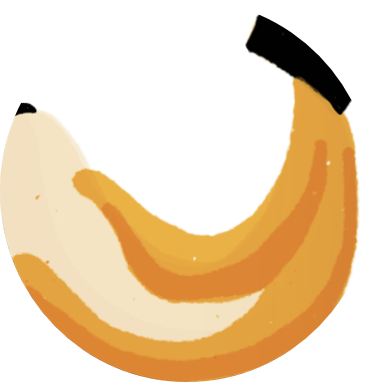
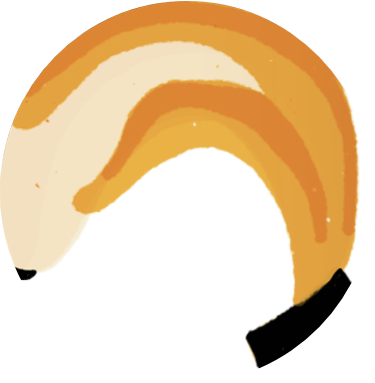
update: texture fliped; intensity -> charging mapped (#22)

diff --git a/ViewTexture.cpp b/ViewTexture.cpp
@@ -163,7 +163,7 @@ void ViewTexture::DrawObstacles(void)
     }
 }
 
-void ViewTexture::DrawHero()
+void ViewTexture::DrawHero(double intensity)
 {
     // draw circle-bounded banana
     // Draw externally and load from PNG (6 states) OR draw by OpenGL (texture) (quite complicated)
@@ -181,8 +181,8 @@ void ViewTexture::DrawHero()
 
     if (charging == world.hero.heroState)
     {
-        y[2] = W2CY(world.hero.y + world.hero.radius * 0.3);
-        y[3] = W2CY(world.hero.y + world.hero.radius * 0.3);
+        y[2] = W2CY(world.hero.y + world.hero.radius * intensity);
+        y[3] = W2CY(world.hero.y + world.hero.radius * intensity);
     }
 
     if (onAir == world.hero.heroState)
@@ -221,7 +221,7 @@ void ViewTexture::DrawUI(double intensity)
     std::sprintf(buffer, "Current Layer: %d", world.currentLayer);
     YsGlDrawFontBitmap16x20(buffer);
     glRasterPos2d(5, 55);
-    std::sprintf(buffer, "Intensity: %f", intensity);
+    std::sprintf(buffer, "Intensity: %1.1lf %%", intensity * 100);
     YsGlDrawFontBitmap16x20(buffer);
 }
 
@@ -231,7 +231,7 @@ void ViewTexture::RenderGame(double intensity)
     glBlendFunc(GL_SRC_ALPHA, GL_ONE_MINUS_SRC_ALPHA);
     DrawBackground(1);
     DrawObstacles();
-    DrawHero();
+    DrawHero(intensity);
     DrawForeground();
     DrawUI(intensity);
     glDisable(GL_BLEND);

diff --git a/flip_texture.py b/flip_texture.py
@@ -1,0 +1,13 @@
+from PIL import Image
+import os
+
+def flip_horizontal(picname):
+    with Image.open(picname) as im:
+        im = im.transpose(Image.FLIP_TOP_BOTTOM)
+    name, suffix = os.path.splitext(picname)
+    newpath = name + '_fliph' + suffix
+    im.save(newpath) 
+
+flip_horizontal('banana_air.png')
+flip_horizontal('banana_l.png')
+flip_horizontal('banana_r.png')

diff --git a/main.cpp b/main.cpp
@@ -239,7 +239,7 @@ void main4Texture()
                 now = next_now;
                 c.CheckKeyState();
                 c.WorldNextTick(v.world, time_interval);
-                v.RenderGame(c.GetIntensity(v.world));
+                v.RenderGame(c.GetIntensityPercent(v.world));
                 c.UpdateGameStage(v.world);
                 break;
             case 2:

diff --git a/ViewTexture.hpp b/ViewTexture.hpp
@@ -77,7 +77,7 @@ public:
     void DrawBackground(int texId);
     void DrawObstacleOne(Obstacle &obs, int texId);
     void DrawObstacles(void);
-    void DrawHero(void);
+    void DrawHero(double intensity);
     void DrawUI(double intensity);
     void DrawForeground(void);
     void RenderGame(double intensity);

diff --git a/Controller.hpp b/Controller.hpp
@@ -32,6 +32,7 @@ public:
     SpaceEvent GetSpaceEvent();
     HeroMoveDir GetMoveDir();
     double GetIntensity(World &w);
+    double GetIntensityPercent(World &w);
     void CheckKeyState(void);
     void WorldNextTick(World &w, double time_interval);
     void UpdateGameStage(World &w);

diff --git a/Controller.cpp b/Controller.cpp
@@ -29,6 +29,10 @@ double Controller::GetIntensity(World &w)
     }
     return 0;
 }
+
+double Controller::GetIntensityPercent(World &w) {
+    return GetIntensity(w) / maxIntensity;
+}
 double Controller::GetTimeDiff(void)
 {
     auto now = std::chrono::system_clock::now();
